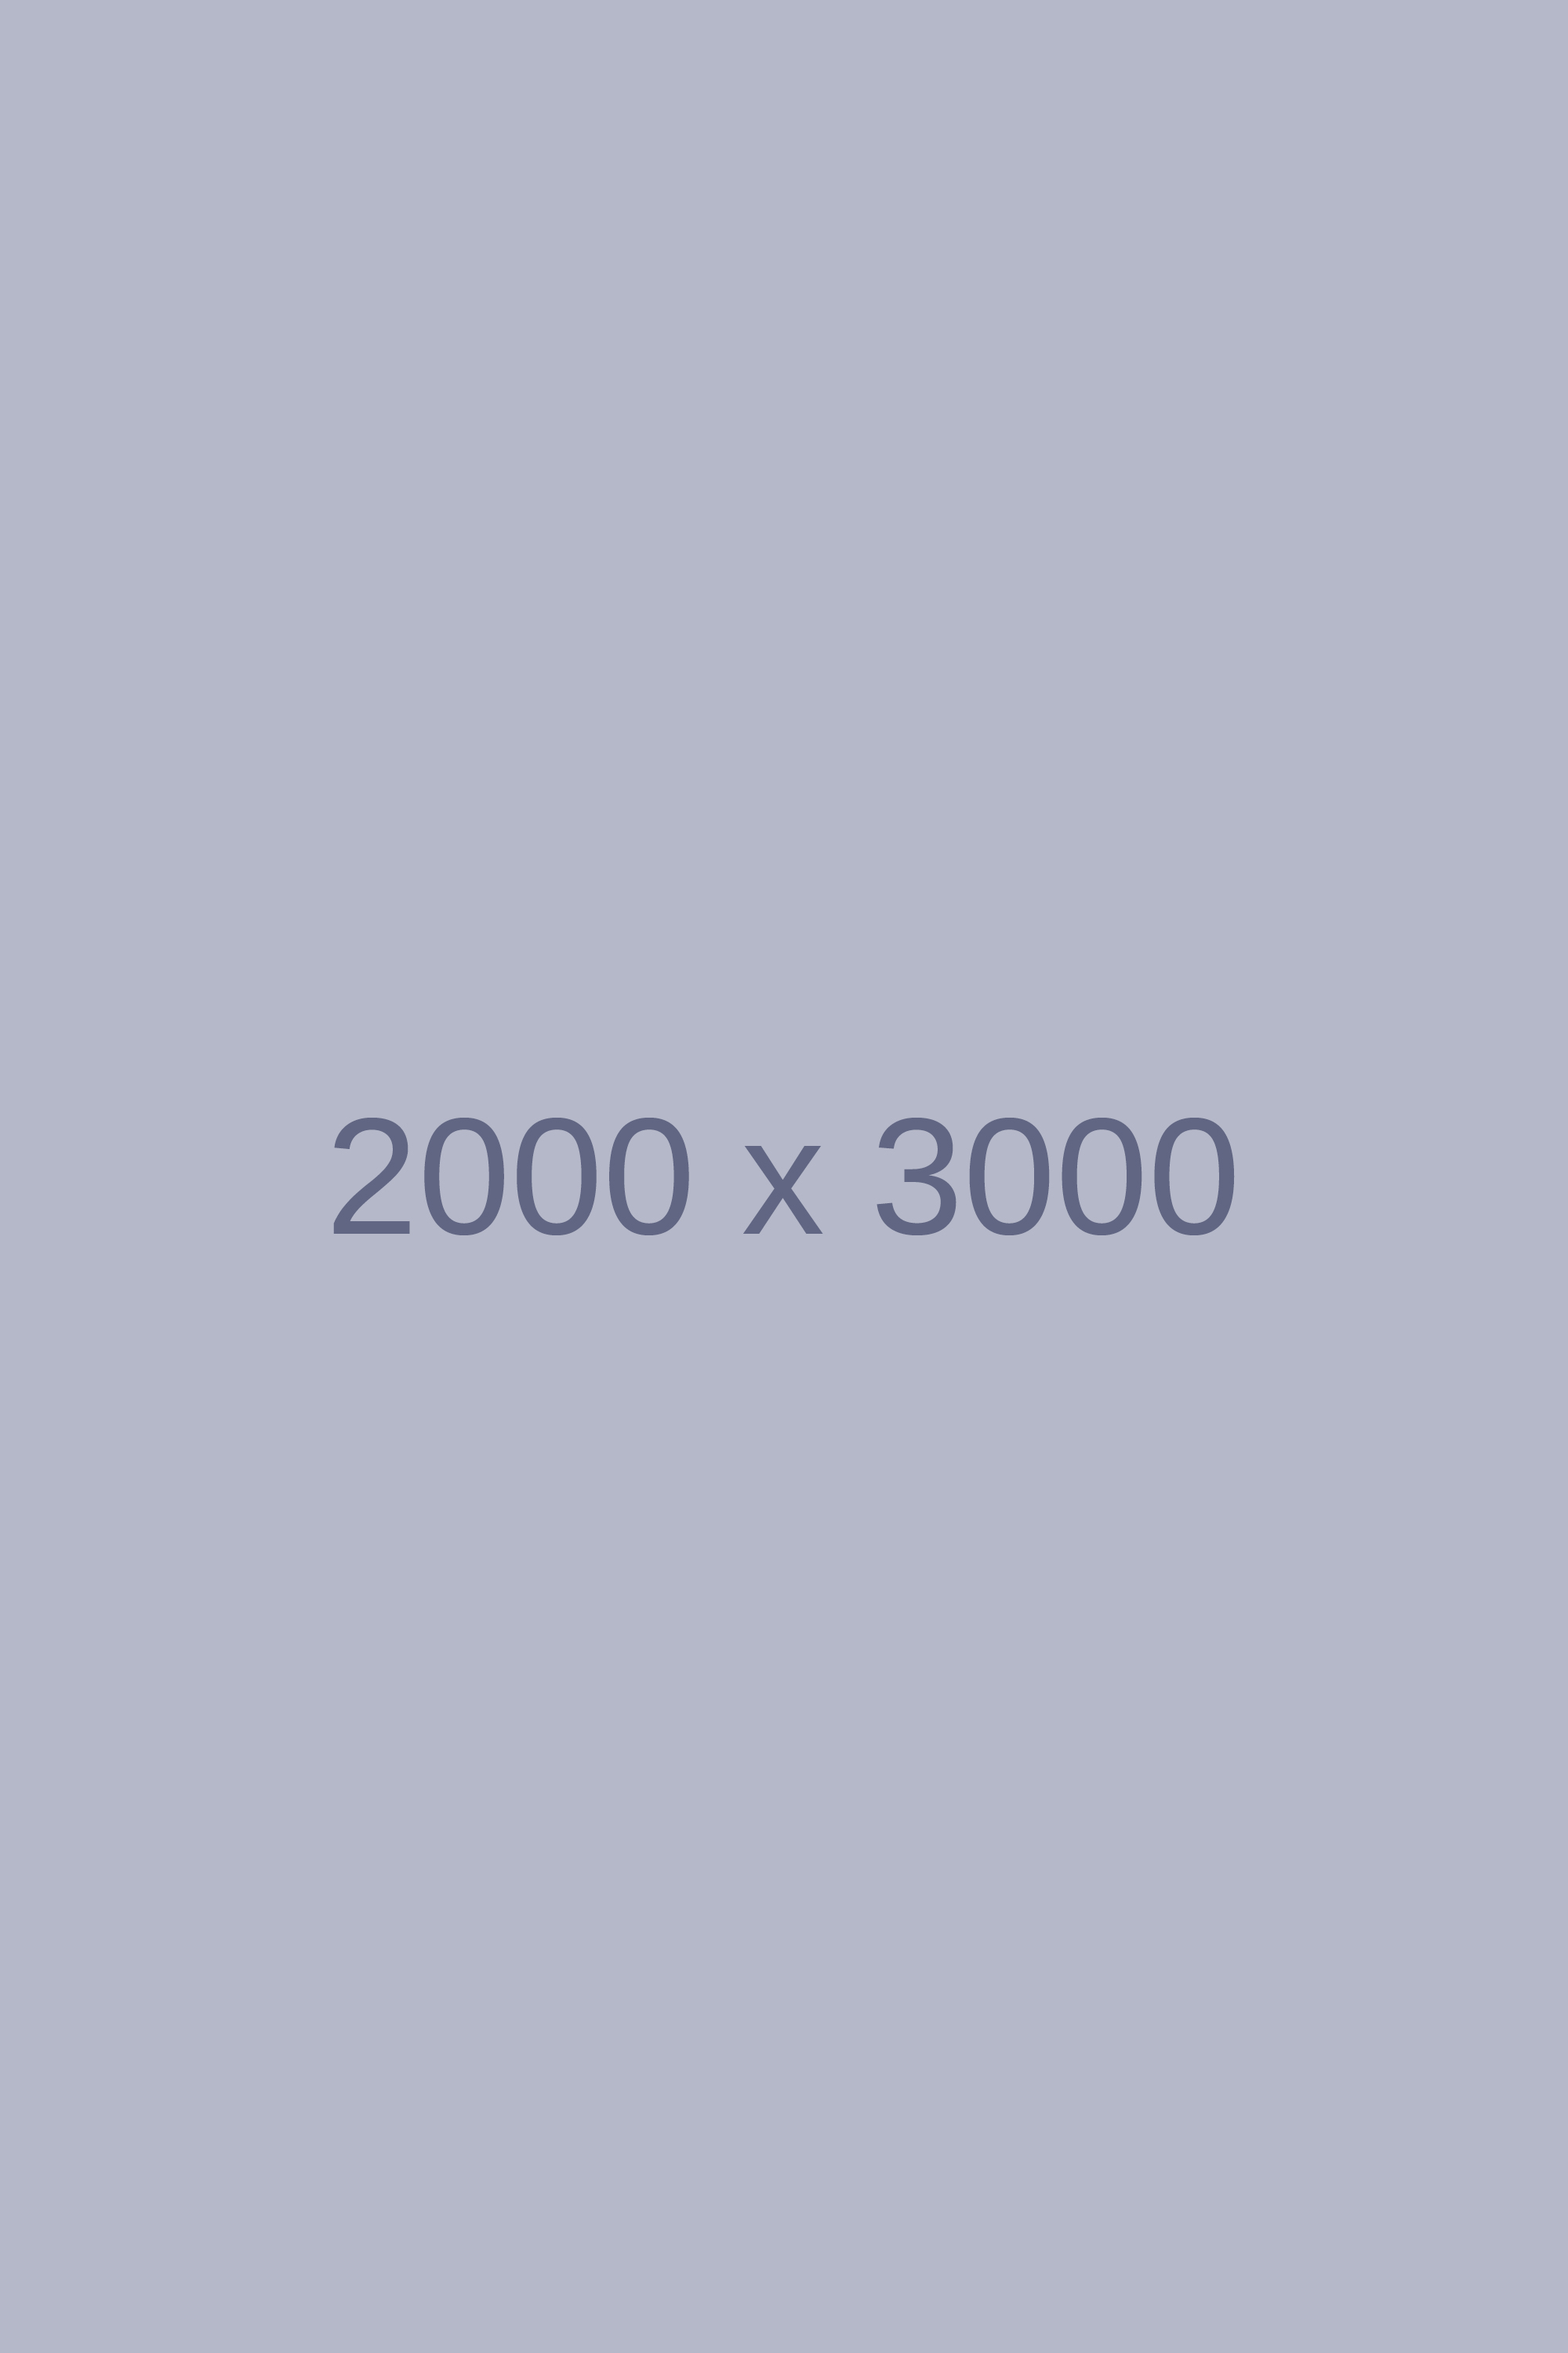
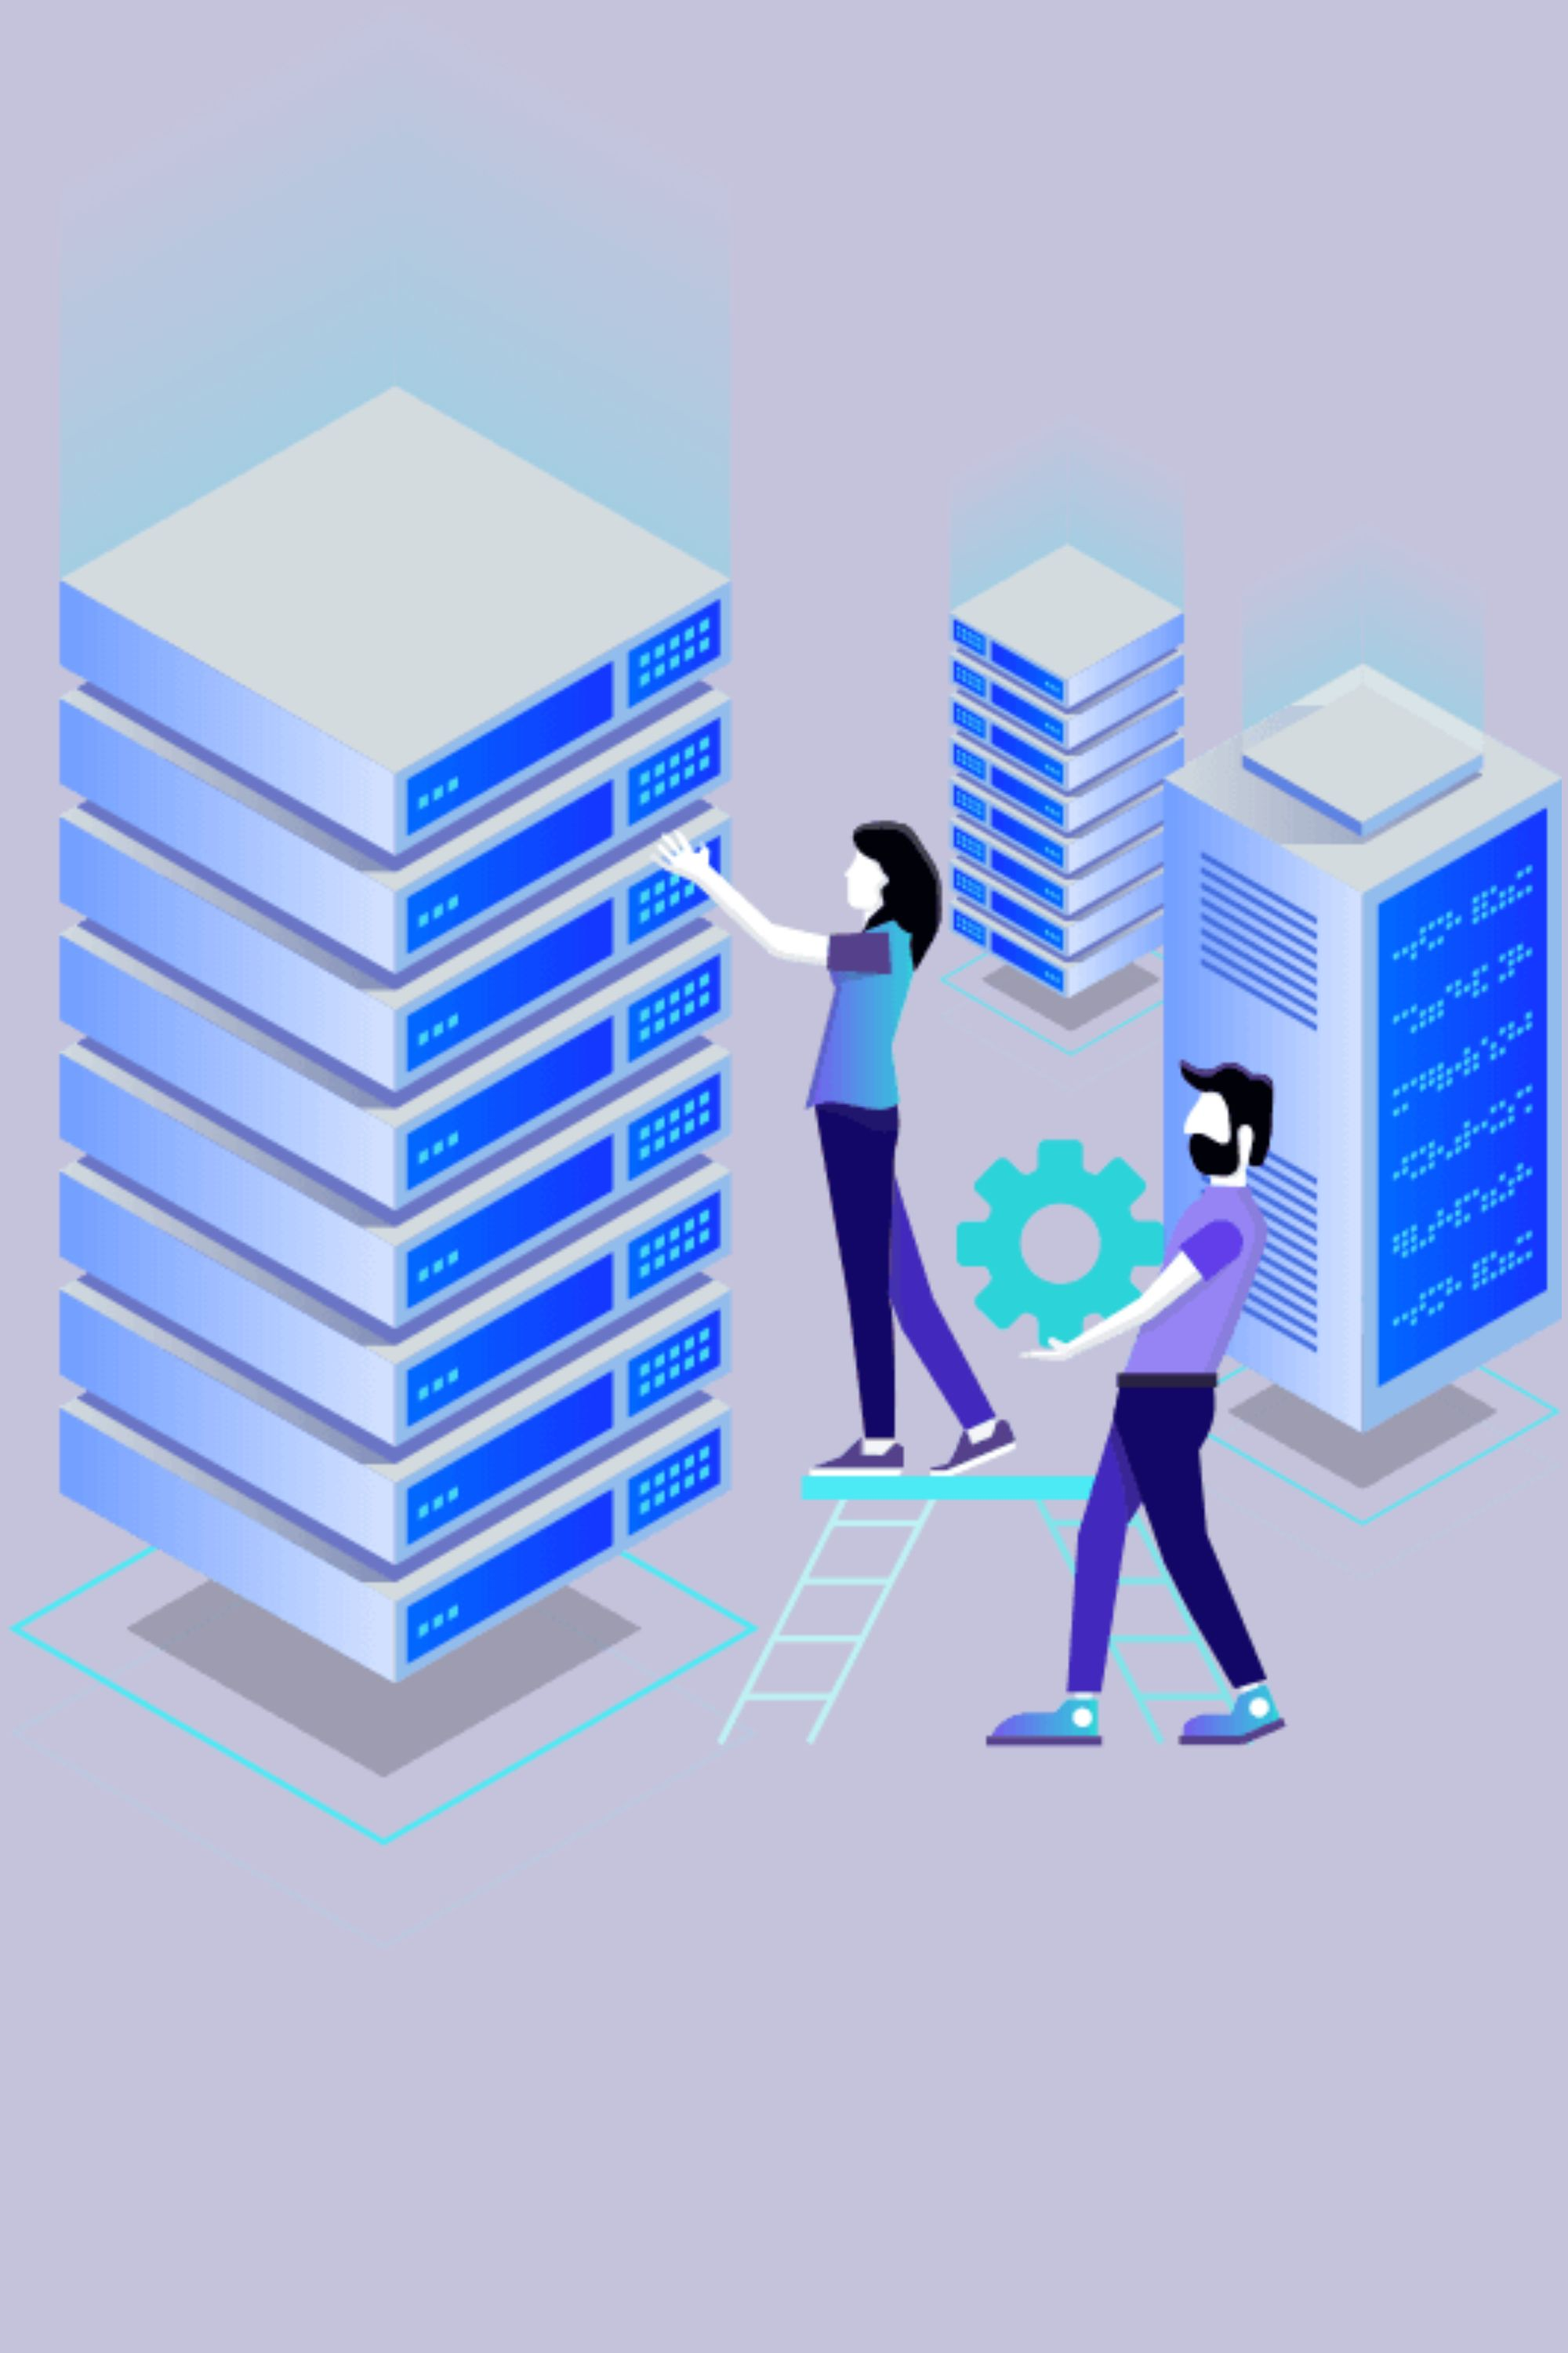
SADAF CONFIRMATION MESSAGES

diff --git a/apps/templates/adminFiles/notifications/viewNotifications.html b/apps/templates/adminFiles/notifications/viewNotifications.html
@@ -1,0 +1,79 @@
+{% include "layout/adminheader.html" %}
+{% block body %}
+    <!-- ============================================================== -->
+            <!-- Start Page Content here -->
+            <!-- ============================================================== -->
+
+            <div class="content-page">
+                <div class="content">
+
+                    <!-- Start Content-->
+                    <div class="container-fluid">
+                        <div class="row page-title">
+                            <div class="col-md-12">
+                                <nav aria-label="breadcrumb" class="float-right mt-1">
+                                    <ol class="breadcrumb">
+                                        <li class="breadcrumb-item"><a href="{{ url_for("routes.admin_dashboard") }}">Dashboard</a></li>
+                                        <li class="breadcrumb-item"><a href="{{url_for("routes.admin_viewnotifications") }}">Notifications</a></li>
+                                        <li class="breadcrumb-item active" aria-current="page">View Notifications </li>
+                                    </ol>
+                                </nav>
+                                <h4 class="mb-1 mt-0"> Notifications</h4>
+                            </div>
+                        </div>
+                        {% for message in get_flashed_messages() %}
+                                    <div class="alert alert-danger alert-dismissible fade show" role="alert">
+                                        {{ message }}
+                                    <button type="button" class="close" data-dismiss="alert" aria-label="Close">
+                                        <span aria-hidden="true">×</span>
+                                    </button>
+                                </div>
+                        {% endfor %}
+                        <div class="row">
+                            <div class="col-12">
+                                <div class="card">
+                                    <div class="card-body">
+                                        <h4 class="header-title mt-0 mb-1">Notifications</h4>
+                                        <p class="sub-header">
+                                            Type the Password and confirm password to Change the Password of Mail Account.
+                                        </p>
+
+                                        <table id="basic-datatable" class="table nowrap">
+                                            <thead>
+                                                <tr>
+                                                    <th>Notification Title</th>
+                                                    <th>Notification Message</th>
+                                                    <th>Notification Date</th>
+                                                    <th>Manage</th>
+                                                </tr>
+                                            </thead>
+
+
+                                            <tbody>
+                                            {% if results %}
+                                                  {% for record in results %}
+                                                    <tr>
+                                                        <td>{{record[2]}}</td>
+                                                        <td>{{record[3]}}</td>
+                                                        <td>{{record[4]}}</td>
+                                                        <td><a href="{{ url_for('routes.admin_deleteEmail', mailID=record[0]) }}" class="custom-confirm-link" data-confirmation="Are you sure you want to remove this?"><button type="button" class="btn btn-info btn-sm">Delete</button></a> </td>
+                                                    </tr>
+                                                  {% endfor %}
+                                            {% endif %}
+
+
+
+                                            </tbody>
+                                        </table>
+
+                                    </div> <!-- end card body-->
+                                </div> <!-- end card -->
+                            </div><!-- end col-->
+                        </div>
+                        <!-- end row-->
+                        <!-- end row-->
+                    </div> <!-- container-fluid -->
+
+                </div> <!-- content -->
+{% include "layout/adminfooter.html" %}
+{% endblock %}

diff --git a/apps/templates/layout/adminheader.html b/apps/templates/layout/adminheader.html
@@ -299,6 +299,22 @@
                                     </li>
                                 </ul>
                             </li>
+                             <li>
+                                <a href="javascript: void(0);">
+                                    <i data-feather="user"></i>
+                                    <span> Notifictions </span>
+                                    <span class="menu-arrow"></span>
+                                </a>
+
+                                <ul class="nav-second-level" aria-expanded="false">
+                                    <li>
+                                        <a href="">Add new notifications</a>
+                                    </li>
+                                    <li>
+                                        <a href="{{ url_for("routes.admin_viewnotifications") }}">View notifications</a>
+                                    </li>
+                                </ul>
+                            </li>
                             <li>
                                 <a href="javascript: void(0);">
                                     <i data-feather="globe"></i>

diff --git a/routes/admin_routes.py b/routes/admin_routes.py
@@ -1054,3 +1054,16 @@ def admin_deleteJob():
             return redirect(url_for("routes.admin_cron_jobs"))
     else:
         return redirect(url_for('routes.login'))
+
+@routes.route('/admin/Notifications/viewnotifications')
+def admin_viewnotifications():
+    mysqlconnection.reconnect()
+    if check_admin_Login():
+        cursor = mysqlconnection.cursor()
+        cursor.execute('SELECT * FROM notifications')
+        results = cursor.fetchall()
+        print(results)
+        msg = ''
+        return render_template('adminFiles/notifications/viewNotifications.html', results=results)
+    else:
+        return redirect(url_for('routes.login'))
